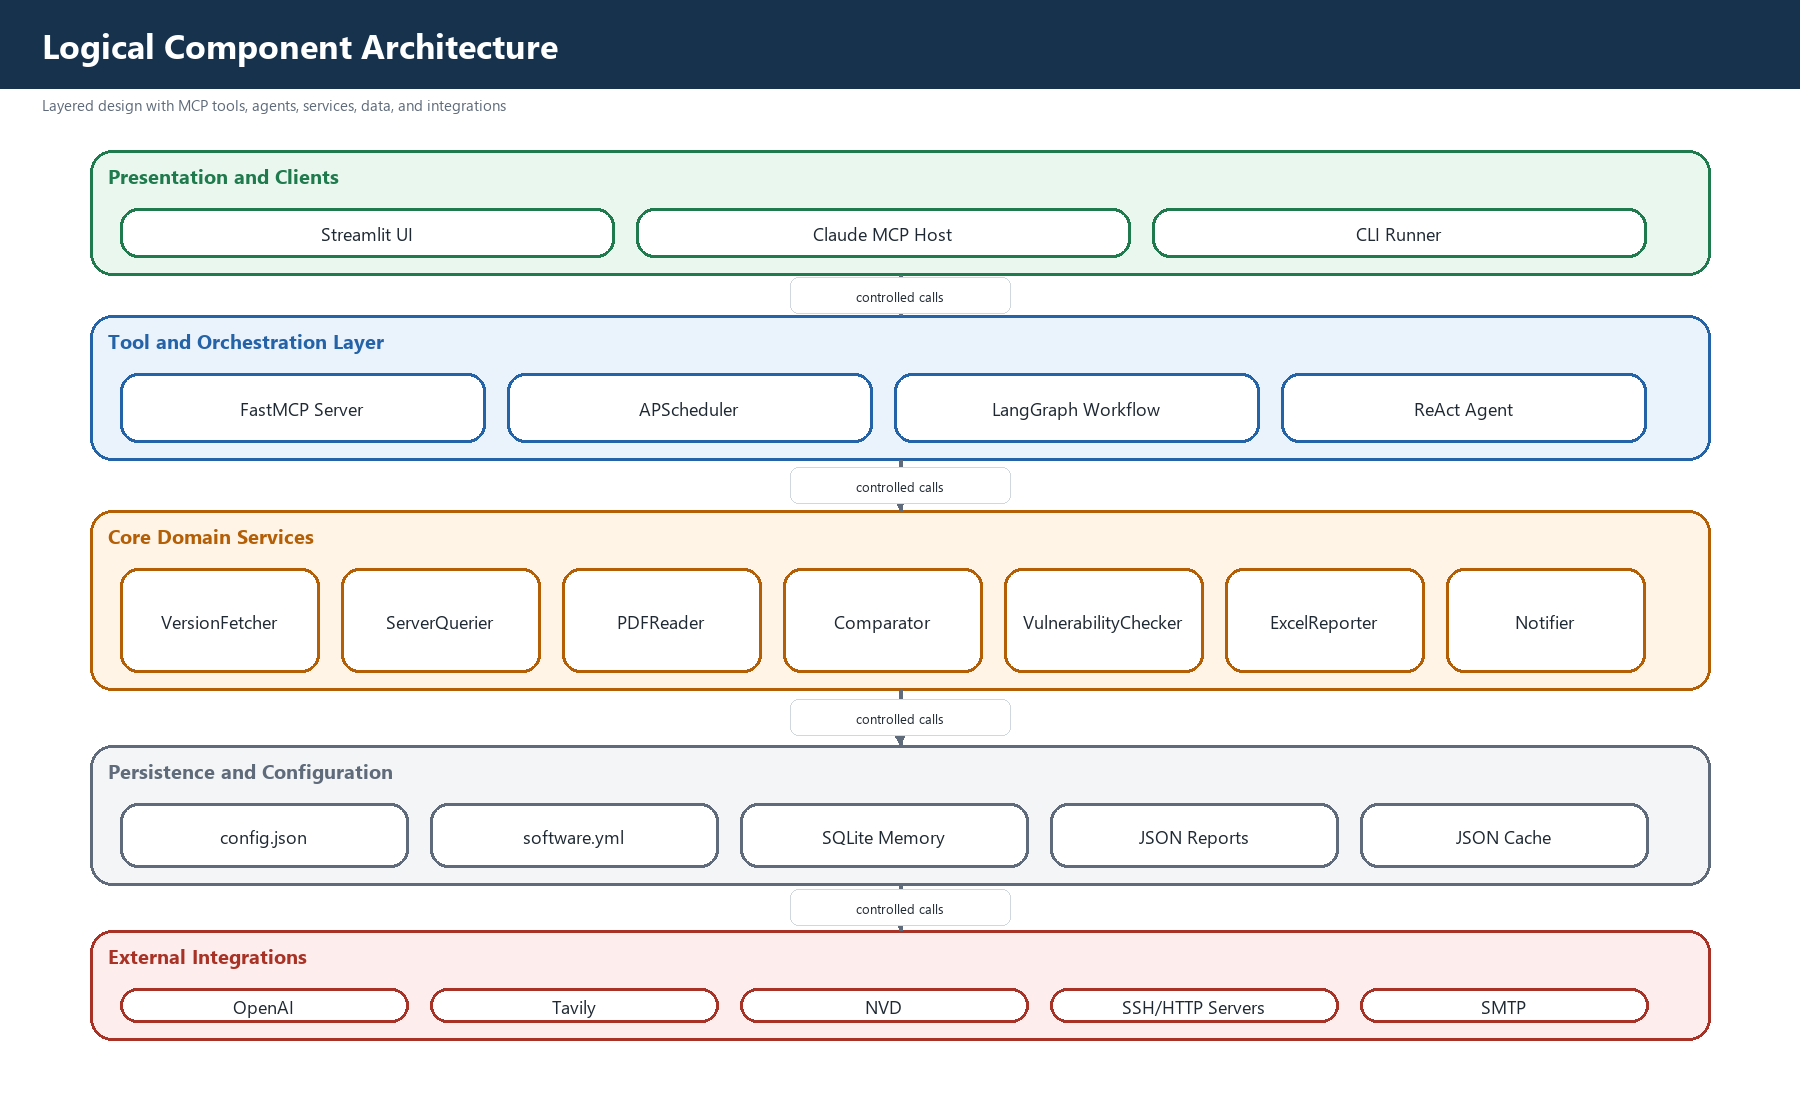
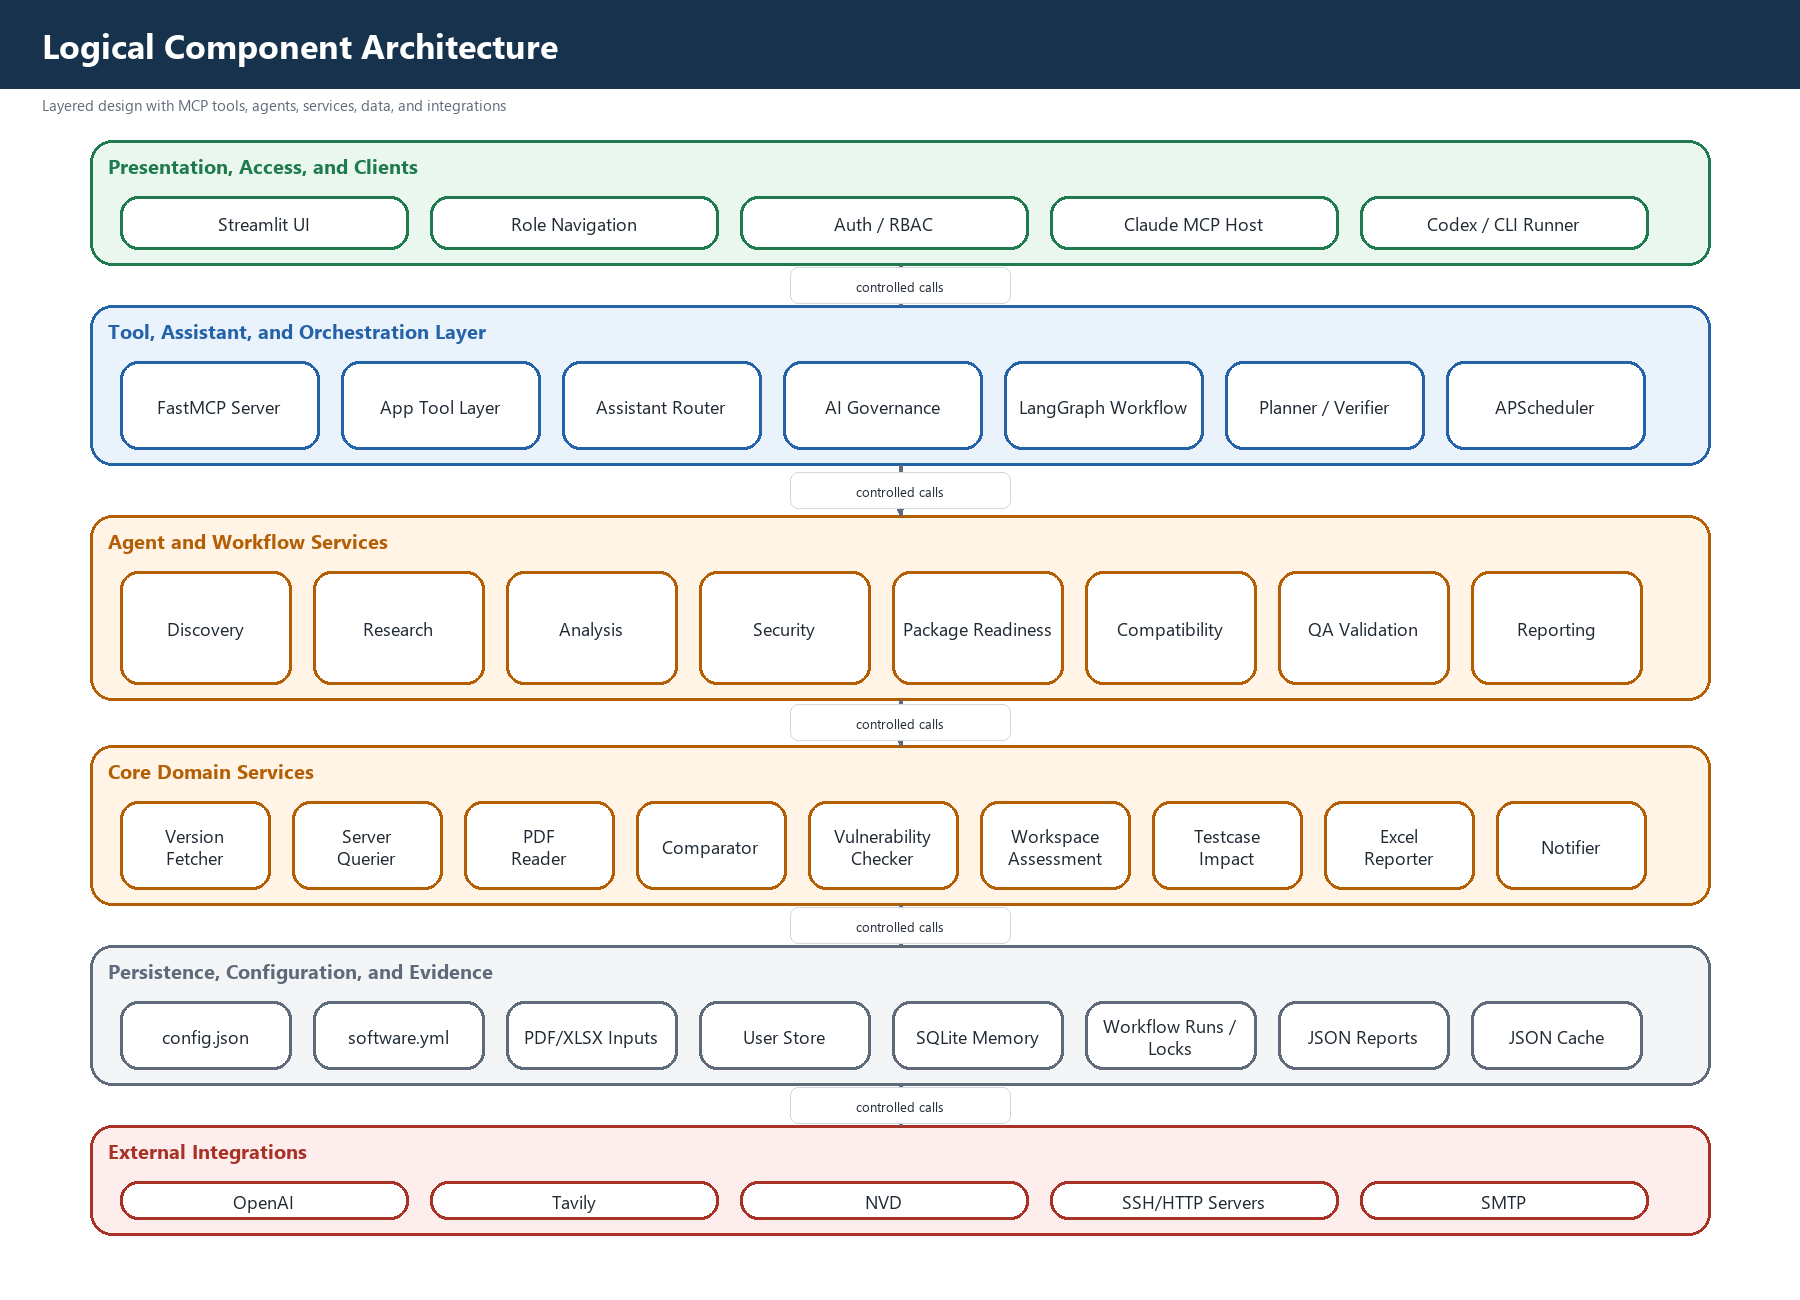
Update logical architecture diagram

Changed region(s): [[0.0, 0.0309, 1.0, 0.9582]]

diff --git a/docs/create_industrial_architecture_docx.py b/docs/create_industrial_architecture_docx.py
@@ -97,8 +97,8 @@ def arrow(draw: ImageDraw.ImageDraw, start: tuple[int, int], end: tuple[int, int
         draw_wrapped(draw, label, label_box, fill=BLACK, fnt=F_TINY)
 
 
-def base_canvas(title: str, subtitle: str = "") -> tuple[Image.Image, ImageDraw.ImageDraw]:
-    img = Image.new("RGB", (1800, 1100), WHITE)
+def base_canvas(title: str, subtitle: str = "", height: int = 1100) -> tuple[Image.Image, ImageDraw.ImageDraw]:
+    img = Image.new("RGB", (1800, height), WHITE)
     draw = ImageDraw.Draw(img)
     draw.rectangle((0, 0, 1800, 88), fill=NAVY)
     draw.text((42, 22), title, fill=WHITE, font=F_TITLE)
@@ -156,13 +156,68 @@ def system_context() -> Path:
 
 
 def logical_architecture() -> Path:
-    img, d = base_canvas("Logical Component Architecture", "Layered design with MCP tools, agents, services, data, and integrations")
+    img, d = base_canvas("Logical Component Architecture", "Layered design with MCP tools, agents, services, data, and integrations", height=1300)
     layers = [
-        (90, 150, 1710, 275, "Presentation and Clients", LIGHT_GREEN, GREEN, ["Streamlit UI", "Claude MCP Host", "CLI Runner"]),
-        (90, 315, 1710, 460, "Tool and Orchestration Layer", LIGHT_BLUE, BLUE, ["FastMCP Server", "APScheduler", "LangGraph Workflow", "ReAct Agent"]),
-        (90, 510, 1710, 690, "Core Domain Services", LIGHT_ORANGE, ORANGE, ["VersionFetcher", "ServerQuerier", "PDFReader", "Comparator", "VulnerabilityChecker", "ExcelReporter", "Notifier"]),
-        (90, 745, 1710, 885, "Persistence and Configuration", LIGHT_GRAY, GRAY, ["config.json", "software.yml", "SQLite Memory", "JSON Reports", "JSON Cache"]),
-        (90, 930, 1710, 1040, "External Integrations", LIGHT_RED, RED, ["OpenAI", "Tavily", "NVD", "SSH/HTTP Servers", "SMTP"]),
+        (
+            90,
+            140,
+            1710,
+            265,
+            "Presentation, Access, and Clients",
+            LIGHT_GREEN,
+            GREEN,
+            ["Streamlit UI", "Role Navigation", "Auth / RBAC", "Claude MCP Host", "Codex / CLI Runner"],
+        ),
+        (
+            90,
+            305,
+            1710,
+            465,
+            "Tool, Assistant, and Orchestration Layer",
+            LIGHT_BLUE,
+            BLUE,
+            ["FastMCP Server", "App Tool Layer", "Assistant Router", "AI Governance", "LangGraph Workflow", "Planner / Verifier", "APScheduler"],
+        ),
+        (
+            90,
+            515,
+            1710,
+            700,
+            "Agent and Workflow Services",
+            LIGHT_ORANGE,
+            ORANGE,
+            ["Discovery", "Research", "Analysis", "Security", "Package Readiness", "Compatibility", "QA Validation", "Reporting"],
+        ),
+        (
+            90,
+            745,
+            1710,
+            905,
+            "Core Domain Services",
+            LIGHT_ORANGE,
+            ORANGE,
+            ["Version\nFetcher", "Server\nQuerier", "PDF\nReader", "Comparator", "Vulnerability\nChecker", "Workspace\nAssessment", "Testcase\nImpact", "Excel\nReporter", "Notifier"],
+        ),
+        (
+            90,
+            945,
+            1710,
+            1085,
+            "Persistence, Configuration, and Evidence",
+            LIGHT_GRAY,
+            GRAY,
+            ["config.json", "software.yml", "PDF/XLSX Inputs", "User Store", "SQLite Memory", "Workflow Runs / Locks", "JSON Reports", "JSON Cache"],
+        ),
+        (
+            90,
+            1125,
+            1710,
+            1235,
+            "External Integrations",
+            LIGHT_RED,
+            RED,
+            ["OpenAI", "Tavily", "NVD", "SSH/HTTP Servers", "SMTP"],
+        ),
     ]
     centers = []
     for x1, y1, x2, y2, title, fill, outline, items in layers:
@@ -172,8 +227,8 @@ def logical_architecture() -> Path:
         for i, item in enumerate(items):
             bx1 = x1 + 30 + i * gap
             bx2 = bx1 + gap - 22
-            by1 = y1 + 58
-            by2 = y2 - 18
+            by1 = y1 + 56
+            by2 = y2 - 16
             box(d, (bx1, by1, bx2, by2), item, WHITE, outline)
             row_centers.append(((bx1 + bx2) // 2, (by1 + by2) // 2))
         centers.append(row_centers)